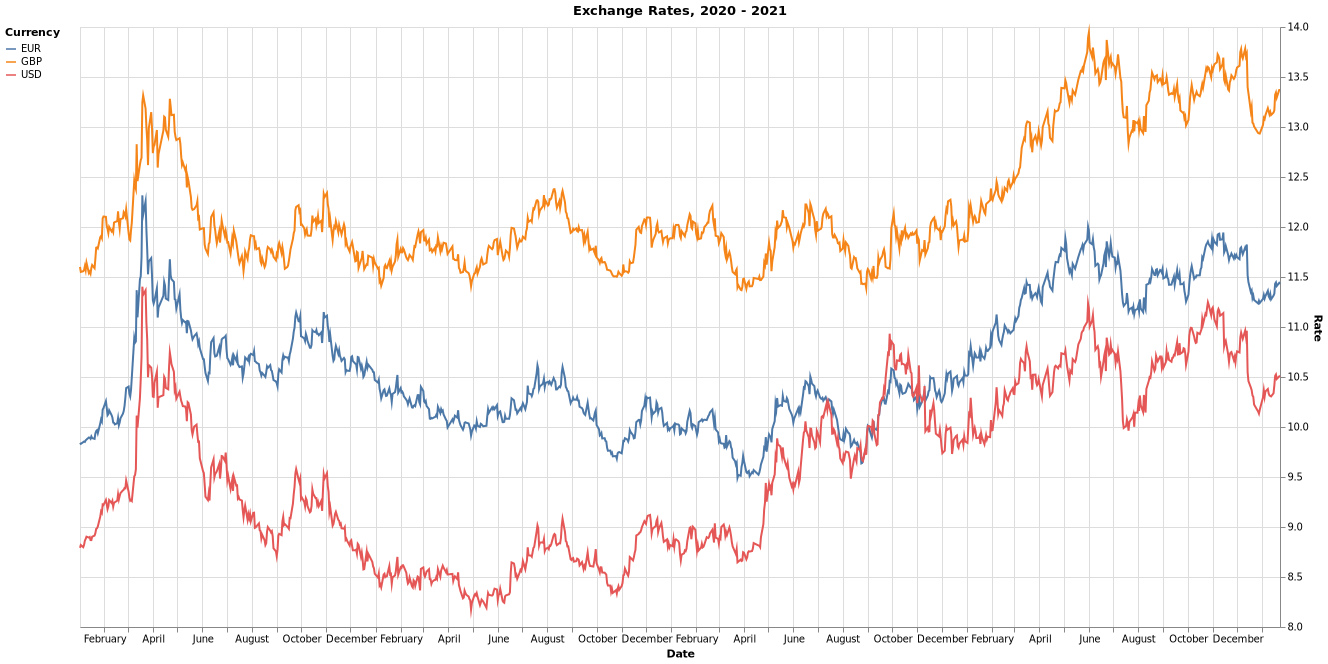
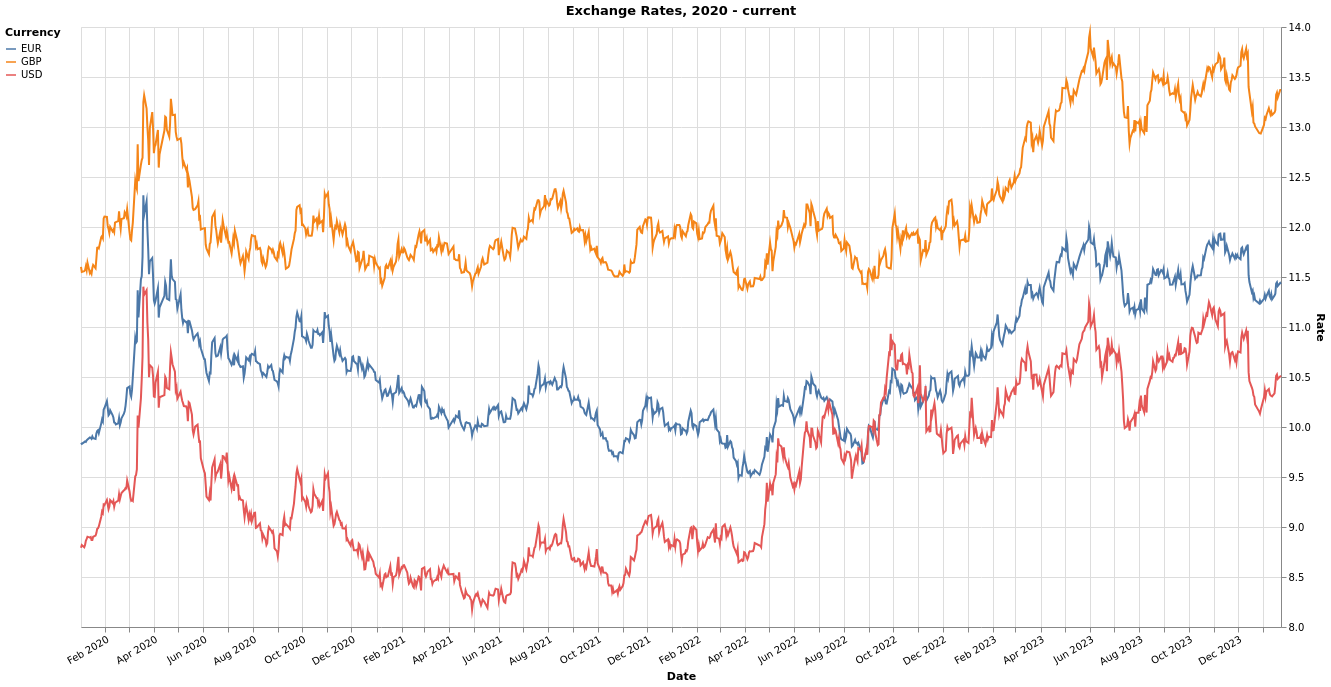
Update date format in exchange rate chart

diff --git a/graphs.py b/graphs.py
@@ -155,10 +155,13 @@ def exchangeRates():
     df = df[df.Date >= "2020-01-01"]
 
     chart = (
-        alt.Chart(df, title="Exchange Rates, 2020 - 2021")
+        alt.Chart(df, title="Exchange Rates, 2020 - current")
         .mark_line()
         .encode(
-            x=alt.X("Date", title="Date"),
+            x=alt.X(
+                "yearmonthdate(Date):T",
+                axis=alt.Axis(title="Date", format="%b %Y", labelAngle=-30),
+            ),
             y=alt.Y(
                 "Rate:Q",
                 title="Rate",
